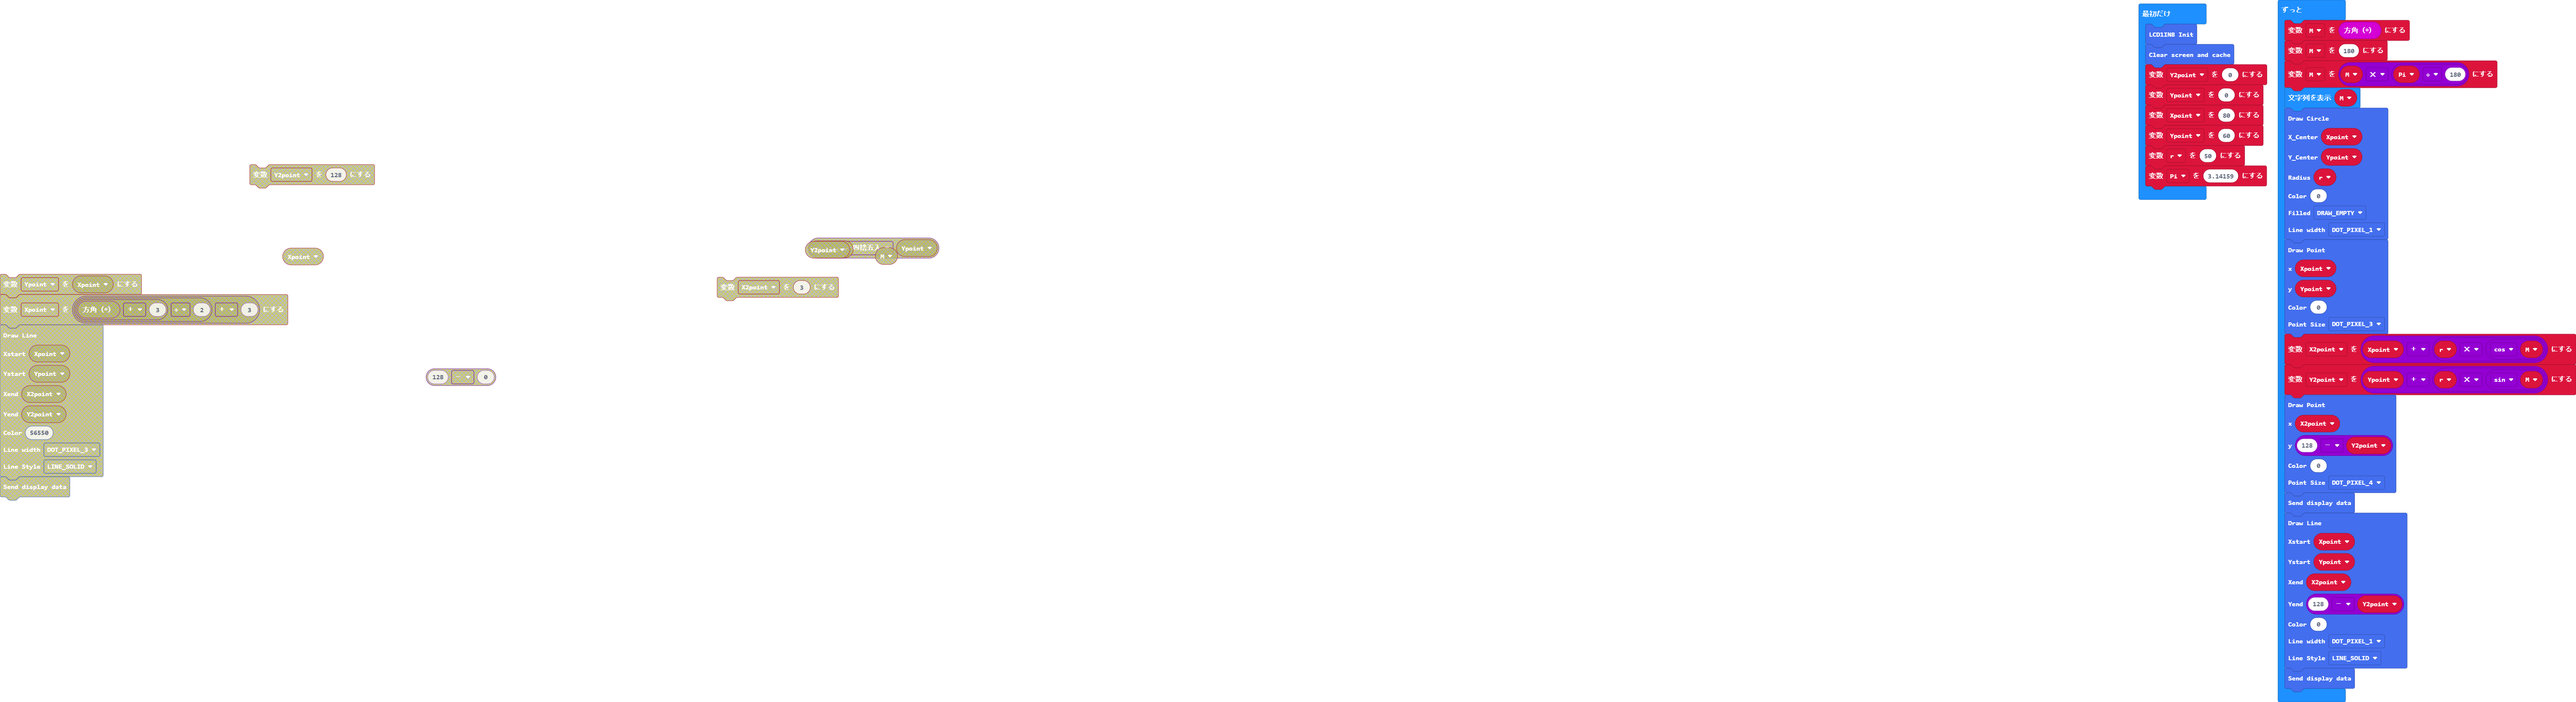
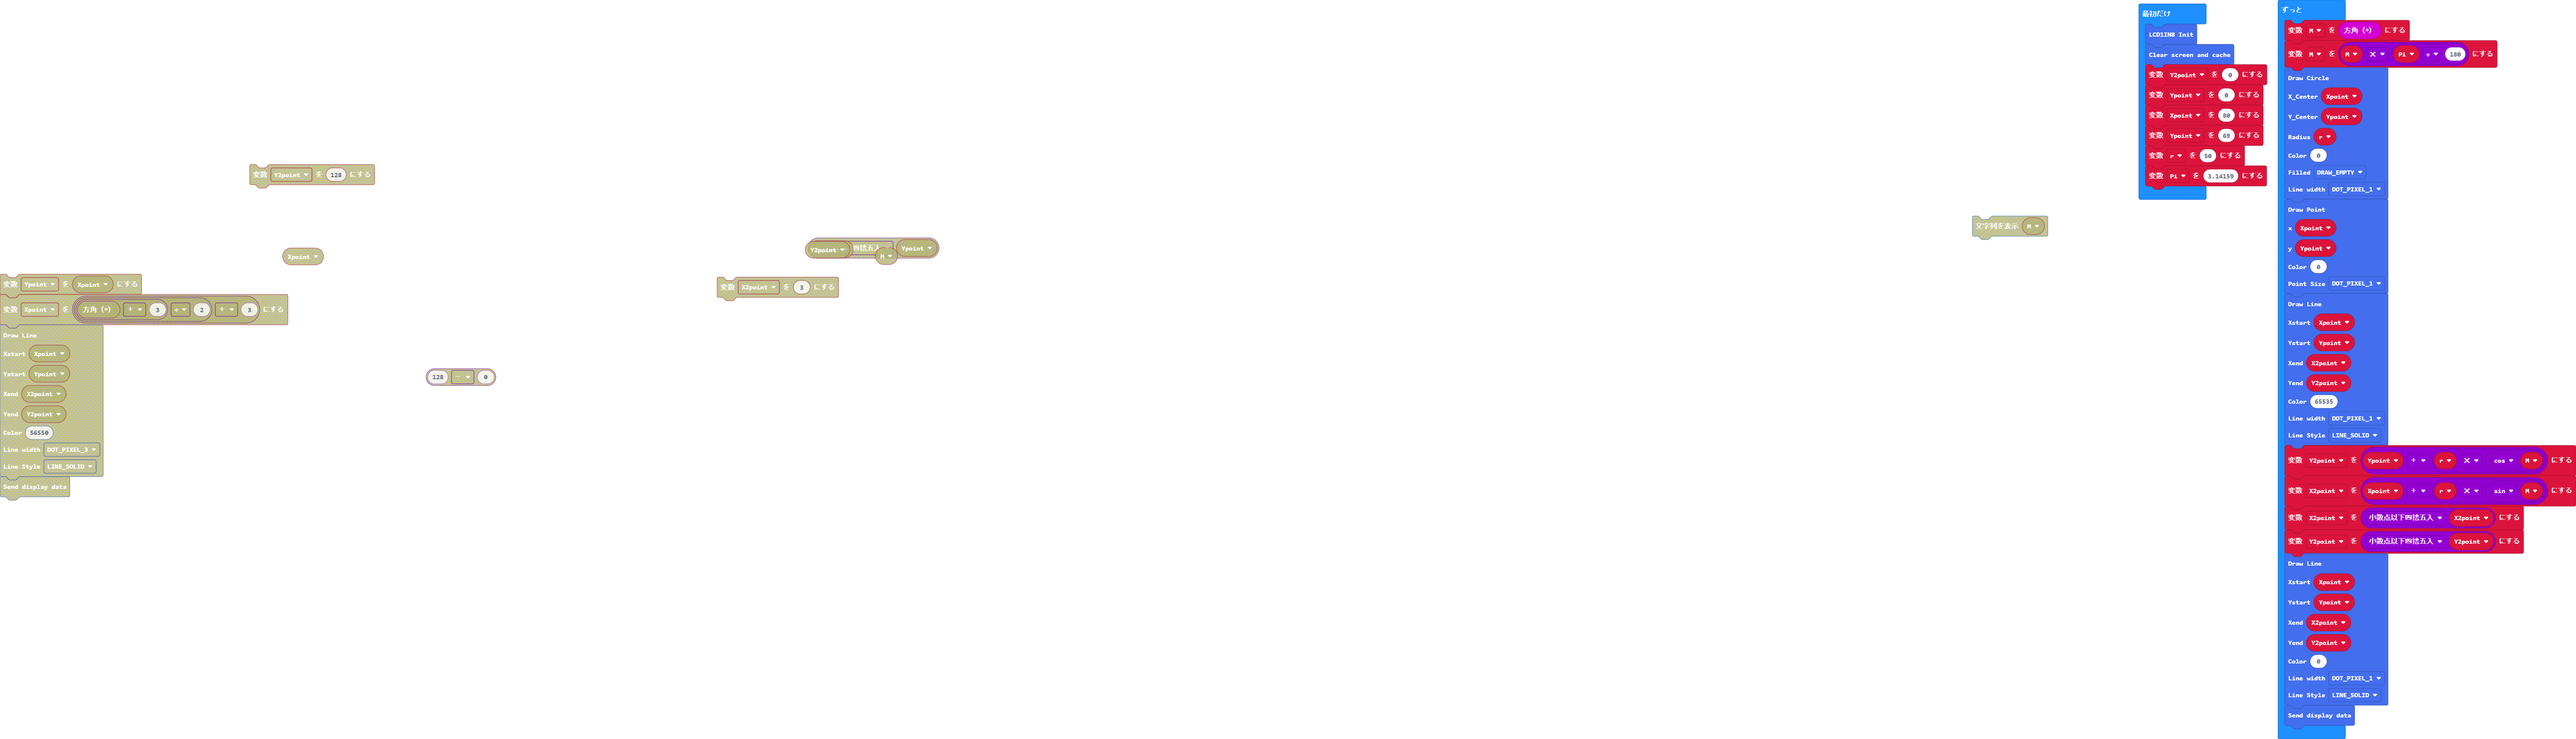
更新 main.blocks, main.ts

diff --git a/main.ts b/main.ts
@@ -5,14 +5,12 @@ LCD1IN8.LCD_Clear()
 let Y2point = 0
 let Ypoint = 0
 let Xpoint = 80
-Ypoint = 60
+Ypoint = 69
 let r = 50
 let Pi = 3.14159
 basic.forever(function () {
     M = input.compassHeading()
-    M = 180
     M = M * (Pi / 180)
-    basic.showString("" + (M))
     LCD1IN8.DrawCircle(
     Xpoint,
     Ypoint,
@@ -25,22 +23,26 @@ basic.forever(function () {
     Xpoint,
     Ypoint,
     0,
-    DOT_PIXEL.DOT_PIXEL_3
+    DOT_PIXEL.DOT_PIXEL_1
     )
-    X2point = Xpoint + r * Math.cos(M)
-    Y2point = Ypoint + r * Math.sin(M)
-    LCD1IN8.DrawPoint(
-    X2point,
-    128 - Y2point,
-    0,
-    DOT_PIXEL.DOT_PIXEL_4
-    )
-    LCD1IN8.LCD_Display()
     LCD1IN8.DrawLine(
     Xpoint,
     Ypoint,
     X2point,
-    128 - Y2point,
+    Y2point,
+    65535,
+    DOT_PIXEL.DOT_PIXEL_1,
+    LINE_STYLE.LINE_SOLID
+    )
+    Y2point = Ypoint + r * Math.cos(M)
+    X2point = Xpoint + r * Math.sin(M)
+    X2point = Math.round(X2point)
+    Y2point = Math.round(Y2point)
+    LCD1IN8.DrawLine(
+    Xpoint,
+    Ypoint,
+    X2point,
+    Y2point,
     0,
     DOT_PIXEL.DOT_PIXEL_1,
     LINE_STYLE.LINE_SOLID
